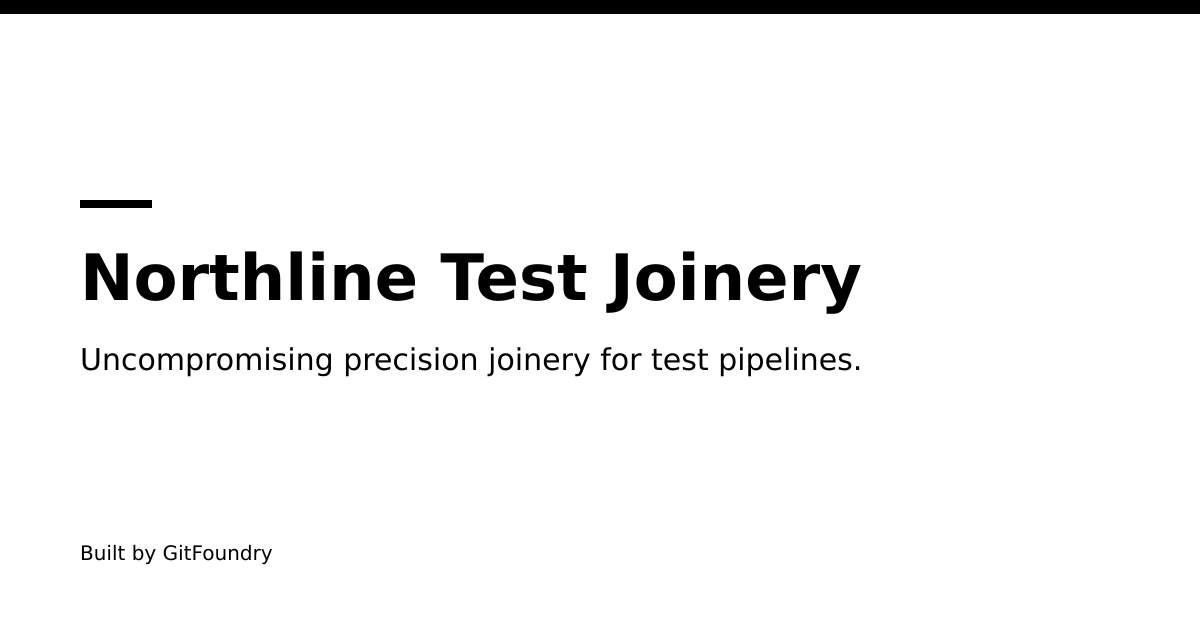
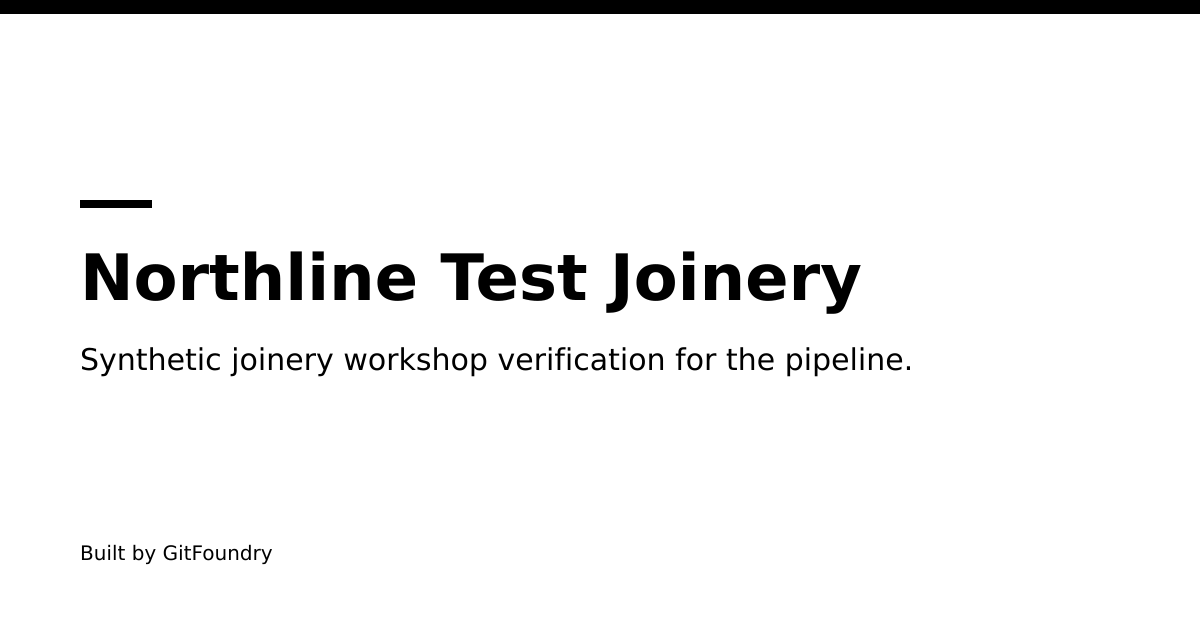
GitFoundry candidate candidate_e6b66cea6d20471008224ea9921fcdded52e37bf9fb342fac580484a7f7d74f2

Changed region(s): [[0.0617, 0.5429, 0.7708, 0.6032]]

diff --git a/index.html b/index.html
@@ -3,8 +3,8 @@
 <head>
   <meta charset="UTF-8">
   <meta name="viewport" content="width=device-width, initial-scale=1.0">
-  <title>Northline Test Joinery — Precision joinery built for exact specifications</title>
-  <meta name="description" content="Northline Test Joinery provides precise synthetic joinery workshop services for the GitFoundry TEST operator. Contact us today to discuss your exact requirements.">
+  <title>Northline Test Joinery — Synthetic joinery workshop verification services</title>
+  <meta name="description" content="Northline Test Joinery provides synthetic joinery workshop verification services to prove the Launch preview path for the GitFoundry operator checking this candidate.">
   <link rel="icon" href="favicon.svg" type="image/svg+xml">
   <link href="https://fonts.googleapis.com/css2?family=Familjen+Grotesk:wght@400..700&family=Karla:wght@300..800&display=swap" rel="stylesheet">
   <link rel="stylesheet" href="styles.css">
@@ -12,12 +12,12 @@
   .menu-toggle { display: none !important; }
   </style></noscript>
   <meta property="og:title" content="Northline Test Joinery">
-  <meta property="og:description" content="Northline Test Joinery provides precise synthetic joinery workshop services for the GitFoundry TEST operator. Contact us today to discuss your exact requirements.">
+  <meta property="og:description" content="Northline Test Joinery provides synthetic joinery workshop verification services to prove the Launch preview path for the GitFoundry operator checking this candidate.">
   <meta property="og:image" content="og-image.png">
   <meta property="og:url" content="index.html">
   <meta property="og:type" content="website">
   <meta name="twitter:card" content="summary_large_image">
-  <script type="application/ld+json">{"@context":"https://schema.org","@type":"ProfessionalService","name":"Northline Test Joinery","description":"We operate a synthetic joinery workshop to prove the Launch preview path. Every build is executed strictly to your provided specifications under stark white light."}</script>
+  <script type="application/ld+json">{"@context":"https://schema.org","@type":"ProfessionalService","name":"Northline Test Joinery","description":"We operate a synthetic joinery workshop dedicated exclusively to proving the Launch preview path. Our facility executes the specific pipeline requirements needed for the GitFoundry test procedure."}</script>
 </head>
 <body>
 <a class="skip-link" href="#main">Skip to content</a>
@@ -33,8 +33,8 @@
       <span class="menu-toggle__bar" aria-hidden="true"></span>
     </button>
     <nav class="primary-nav" id="primary-nav" aria-label="Primary">
-      <a href="#features-grid">What we offer</a>
-      <a href="#how-it-works">How it works</a>
+      <a href="#features-list">What we offer</a>
+      <a href="#process-steps">How it works</a>
       <a href="#contact-block">Contact</a>
     </nav>
   </div>
@@ -44,61 +44,69 @@
 <section data-section="hero-split" data-surface="dominant" id="hero-split" class="hero-split">
   <div class="container hero-split__inner">
     <div class="hero-split__text">
-      <h1 class="hero-split__headline">Precision joinery built for exact specifications</h1>
-      <p class="hero-split__sub">Workshop joinery services delivered to exact requirements for the GitFoundry TEST operator.</p>
+      <h1 class="hero-split__headline">Synthetic joinery workshop verification services</h1>
+      <p class="hero-split__sub">Precision workshop operations designed to prove the Launch preview path for the GitFoundry operator.</p>
       <div class="hero-split__ctas">
         <a href="#contact" class="btn btn--primary">Get a free quote</a>
-        <a href="#features-grid" class="btn btn--ghost">See what we offer</a>
+        <a href="#features-list" class="btn btn--ghost">See what we offer</a>
       </div>
     </div>
 
   </div>
 </section>
-<section data-section="features-grid" data-surface="dominant" id="features-grid" class="features-grid">
+<section data-section="features-list" data-surface="dominant" id="features-list" class="features-list">
   <div class="container">
-    <h2 class="features-grid__title">What you get</h2>
-    <div class="features-grid__cards">
-      <article class="feature-card">
-        <h3 class="feature-card__title">Custom Timber Cutting</h3>
-        <p class="feature-card__desc">Precise dimensioning of materials to fit your exact blueprint tolerances.</p>
-        <ul class="feature-card__bullets"><li>Exact millimetre cuts</li><li>Clean workshop finish</li></ul>
-      </article>
-      <article class="feature-card">
-        <h3 class="feature-card__title">Synthetic Assembly</h3>
-        <p class="feature-card__desc">Controlled workshop assembly designed specifically for test pipeline verification.</p>
-        <ul class="feature-card__bullets"><li>Rigid structural joints</li><li>Reliable test runs</li></ul>
-      </article>
-      <article class="feature-card">
-        <h3 class="feature-card__title">Surface Preparation</h3>
-        <p class="feature-card__desc">Thorough sanding and edge smoothing ready for immediate installation.</p>
-        <ul class="feature-card__bullets"><li>Smooth flat planes</li><li>Ready for finishing</li></ul>
-      </article>
-    </div>
+    <h2 class="features-list__title">What you get</h2>
+    <ul class="features-list__items">
+      <li class="features-list__item">
+        <div class="features-list__body">
+          <h3 class="features-list__name">Synthetic Joinery</h3>
+          <p class="features-list__desc">Executed strictly within the parameters of the automated test pathway.</p>
+          <ul class="features-list__bullets"><li>Proves preview path</li><li>Validates sink address</li></ul>
+        </div>
+      </li>
+      <li class="features-list__item">
+        <div class="features-list__body">
+          <h3 class="features-list__name">Pipeline Verification</h3>
+          <p class="features-list__desc">Ensures every step of the designated workflow responds correctly.</p>
+          <ul class="features-list__bullets"><li>Checks test routing</li><li>Confirms response</li></ul>
+        </div>
+      </li>
+      <li class="features-list__item">
+        <div class="features-list__body">
+          <h3 class="features-list__name">Fixture Operations</h3>
+          <p class="features-list__desc">Maintains the transparent environment required for accurate system checks.</p>
+          <ul class="features-list__bullets"><li>Stark transparency</li><li>Infallible testing</li></ul>
+        </div>
+      </li>
+    </ul>
   </div>
 </section>
-<section data-section="how-it-works" data-surface="dominant" id="how-it-works" class="how-it-works">
+<section data-section="process-steps" data-surface="dominant" id="process-steps" class="process-steps">
   <div class="container">
-    <h2 class="how-it-works__title">How it works</h2>
-    <ol class="how-it-works__steps">
-      <li class="how-step">
-        <span class="how-step__num" aria-hidden="true">1</span>
+    <div class="process-steps__intro">
+    <h2 class="process-steps__title">How it works</h2>
+    </div>
+    <ol class="process-steps__list">
+      <li class="process-step">
+        <span class="process-step__num" aria-hidden="true">1</span>
         <div class="process-step__body">
-        <h3 class="how-step__heading">Submit Specifications</h3>
-        <p class="how-step__desc">Send over your exact measurements and project requirements.</p>
+          <h3 class="process-step__heading">Initiate Test</h3>
+          <p class="process-step__desc">Submit your request through the primary channel to trigger the verification pipeline.</p>
         </div>
       </li>
-      <li class="how-step">
-        <span class="how-step__num" aria-hidden="true">2</span>
+      <li class="process-step">
+        <span class="process-step__num" aria-hidden="true">2</span>
         <div class="process-step__body">
-        <h3 class="how-step__heading">Workshop Build</h3>
-        <p class="how-step__desc">We execute the joinery work precisely to your instructions.</p>
+          <h3 class="process-step__heading">Run Simulation</h3>
+          <p class="process-step__desc">Our workshop executes the synthetic joinery procedures required for the audit.</p>
         </div>
       </li>
-      <li class="how-step">
-        <span class="how-step__num" aria-hidden="true">3</span>
+      <li class="process-step">
+        <span class="process-step__num" aria-hidden="true">3</span>
         <div class="process-step__body">
-        <h3 class="how-step__heading">Quality Check</h3>
-        <p class="how-step__desc">Every piece is inspected against the initial brief before dispatch.</p>
+          <h3 class="process-step__heading">Review Output</h3>
+          <p class="process-step__desc">Receive confirmation once the preview path successfully completes its checks.</p>
         </div>
       </li>
     </ol>
@@ -109,24 +117,24 @@
     <h2 class="faq-accordion__title">Frequently asked questions</h2>
     <div class="faq-accordion__list">
       <details class="faq-item">
-        <summary class="faq-item__question">What type of joinery work do you undertake?</summary>
-        <div class="faq-item__answer"><p>We handle synthetic joinery workshop tasks exclusively designed to prove the Launch preview path and meet test pipeline specifications.</p></div>
+        <summary class="faq-item__question">What is the purpose of this workshop?</summary>
+        <div class="faq-item__answer"><p>It exists solely to prove the Launch preview path for the GitFoundry operator test.</p></div>
       </details>
       <details class="faq-item">
-        <summary class="faq-item__question">How do I submit my specifications?</summary>
-        <div class="faq-item__answer"><p>Send your exact requirements directly through our contact form or call us to discuss your build parameters.</p></div>
+        <summary class="faq-item__question">How do I make an enquiry?</summary>
+        <div class="faq-item__answer"><p>Use the contact details provided to submit your verification requirements directly to our team.</p></div>
+      </details>
+      <details class="faq-item">
+        <summary class="faq-item__question">Is actual commercial joinery available?</summary>
+        <div class="faq-item__answer"><p>No, this facility handles synthetic test operations only.</p></div>
       </details>
       <details class="faq-item">
         <summary class="faq-item__question">Where is the workshop located?</summary>
-        <div class="faq-item__answer"><p>Our workshop operates at the designated invalid sink address required by the TEST pipeline.</p></div>
+        <div class="faq-item__answer"><p>It operates at the invalid sink address specified by the test pipeline.</p></div>
       </details>
       <details class="faq-item">
-        <summary class="faq-item__question">What is the typical turnaround time?</summary>
-        <div class="faq-item__answer"><p>Turnaround depends on the complexity of your test requirements. Contact us directly for a clear schedule on your build.</p></div>
-      </details>
-      <details class="faq-item">
-        <summary class="faq-item__question">Are quotes provided free of charge?</summary>
-        <div class="faq-item__answer"><p>Yes. We review your specifications and provide a straightforward quote before any workshop work begins.</p></div>
+        <summary class="faq-item__question">Who is this service for?</summary>
+        <div class="faq-item__answer"><p>It is built exclusively for the GitFoundry test operator checking this candidate.</p></div>
       </details>
     </div>
   </div>
@@ -135,9 +143,9 @@
   <div class="container contact-block__inner" id="contact-block">
     <div class="contact-block__info">
       <h2 class="contact-block__title">Get in touch</h2>
-      <p class="contact-block__about">We operate a synthetic joinery workshop to prove the Launch preview path. Every build is executed strictly to your provided specifications under stark white light.</p>
+      <p class="contact-block__about">We operate a synthetic joinery workshop dedicated exclusively to proving the Launch preview path. Our facility executes the specific pipeline requirements needed for the GitFoundry test procedure.</p>
       <p class="contact-block__promise">What happens next: your message comes straight to us, and we reply by email.</p>
-      <ul class="contact-block__signals"><li>Operates exclusively as a synthetic TEST joinery workshop</li><li>Located at the designated invalid sink address for the TEST pipeline</li></ul>
+      
     </div>
     <form class="contact-block__form" action="https://gitfoundry-worker-test.gitfoundry.workers.dev/api/site-enquiry" method="POST">
       <input type="hidden" name="subject" value="Enquiry from Northline Test Joinery">
@@ -163,7 +171,7 @@
 <footer class="site-footer">
   <div class="container site-footer__inner">
     <p class="site-footer__brand">Northline Test Joinery</p>
-    <p class="site-footer__tagline">Uncompromising precision joinery for test pipelines.</p>
+    <p class="site-footer__tagline">Synthetic joinery workshop verification for the pipeline.</p>
     <p class="site-footer__built"><a href="https://gitfoundry.co.uk">Built by GitFoundry</a> · <a href="https://gitfoundry.co.uk/legal">GitFoundry privacy &amp; terms</a></p>
   </div>
 </footer>

diff --git a/404.html b/404.html
@@ -38,8 +38,8 @@
       <span class="menu-toggle__bar" aria-hidden="true"></span>
     </button>
     <nav class="primary-nav" id="primary-nav" aria-label="Primary">
-      <a href="#features-grid">What we offer</a>
-      <a href="#how-it-works">How it works</a>
+      <a href="#features-list">What we offer</a>
+      <a href="#process-steps">How it works</a>
       <a href="#contact-block">Contact</a>
     </nav>
   </div>
